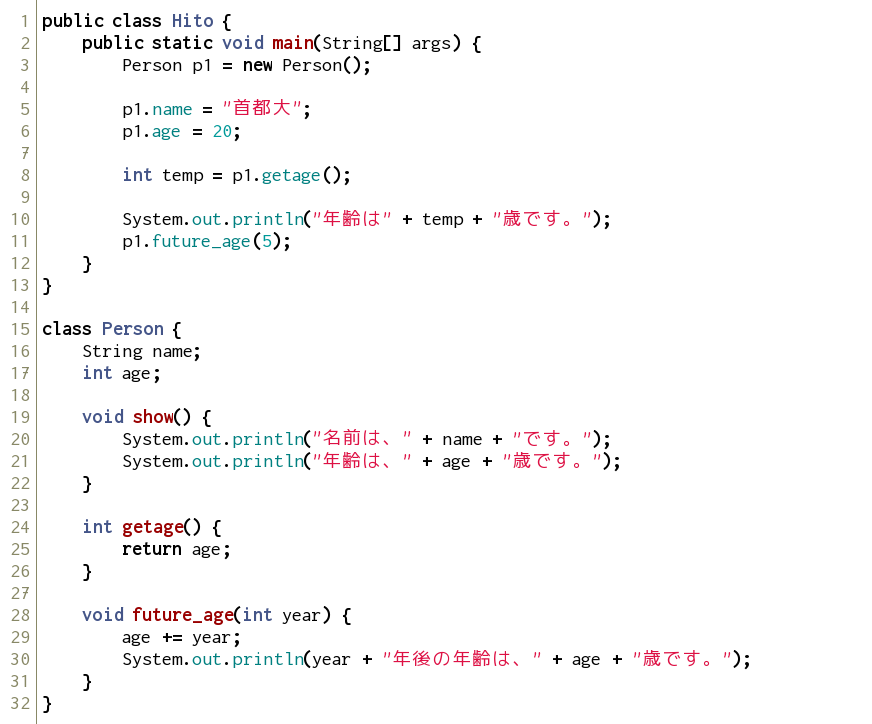
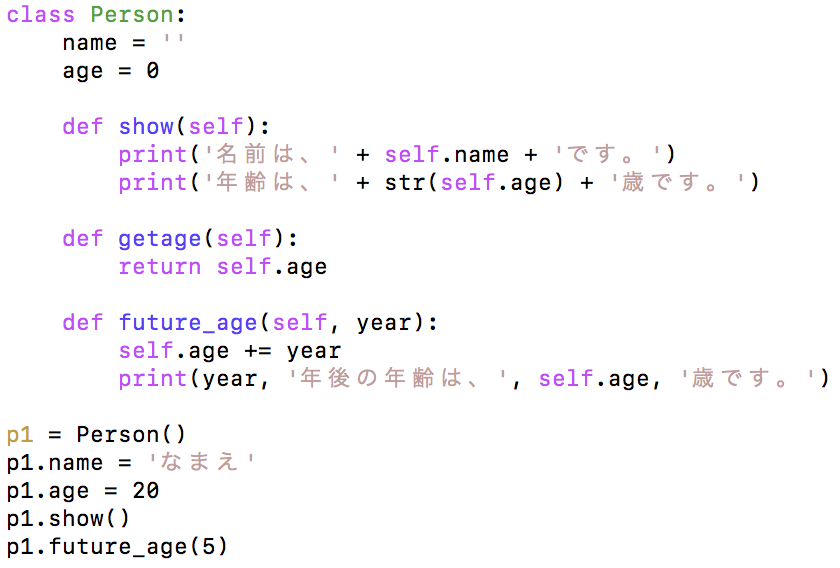
replacing java programs with python ones

diff --git a/contents/python/basic/08/prog/Hito2.py b/contents/python/basic/08/prog/Hito2.py
@@ -1,6 +1,7 @@
 class Person:
-    name = ''
-    age = 0
+    def main(self):
+        name = 'なまえ'
+        age = 20
 
     def show(self):
         print('名前は、' + self.name + 'です。')
@@ -9,15 +10,10 @@ class Person:
     def getage(self):
         return self.age
 
-    def future_age(self, year):
-        self.age += year
-        print(year, '年後の年齢は、', self.age, '歳です。')
-
 p1 = Person()
-p1.name = 'なまえ'
-p1.age = 20
-p1.show()
-p1.future_age(5)
+p1.main()
+
+
 
 
 

diff --git a/contents/python/basic/08/prog/Hito1.py b/contents/python/basic/08/prog/Hito1.py
@@ -1,0 +1,16 @@
+class Person:
+    def main(self):
+        name = 'なまえ'
+        age = 20
+
+    def show(self):
+        print('名前は、' + self.name + 'です。')
+        print('年齢は、' + str(self.age) + '歳です。')
+
+p1 = Person()
+p1.main()
+
+
+
+
+

diff --git a/contents/python/basic/08/prog/Hito0.py b/contents/python/basic/08/prog/Hito0.py
@@ -1,0 +1,14 @@
+class Person:
+    def main(self):
+        name = 'なまえ'
+        age = 20
+        print('名前は、' + self.name + 'です。')
+        print('年齢は、' + str(self.age) + '歳です。')
+
+p1 = Person()
+p1.main()
+
+
+
+
+
